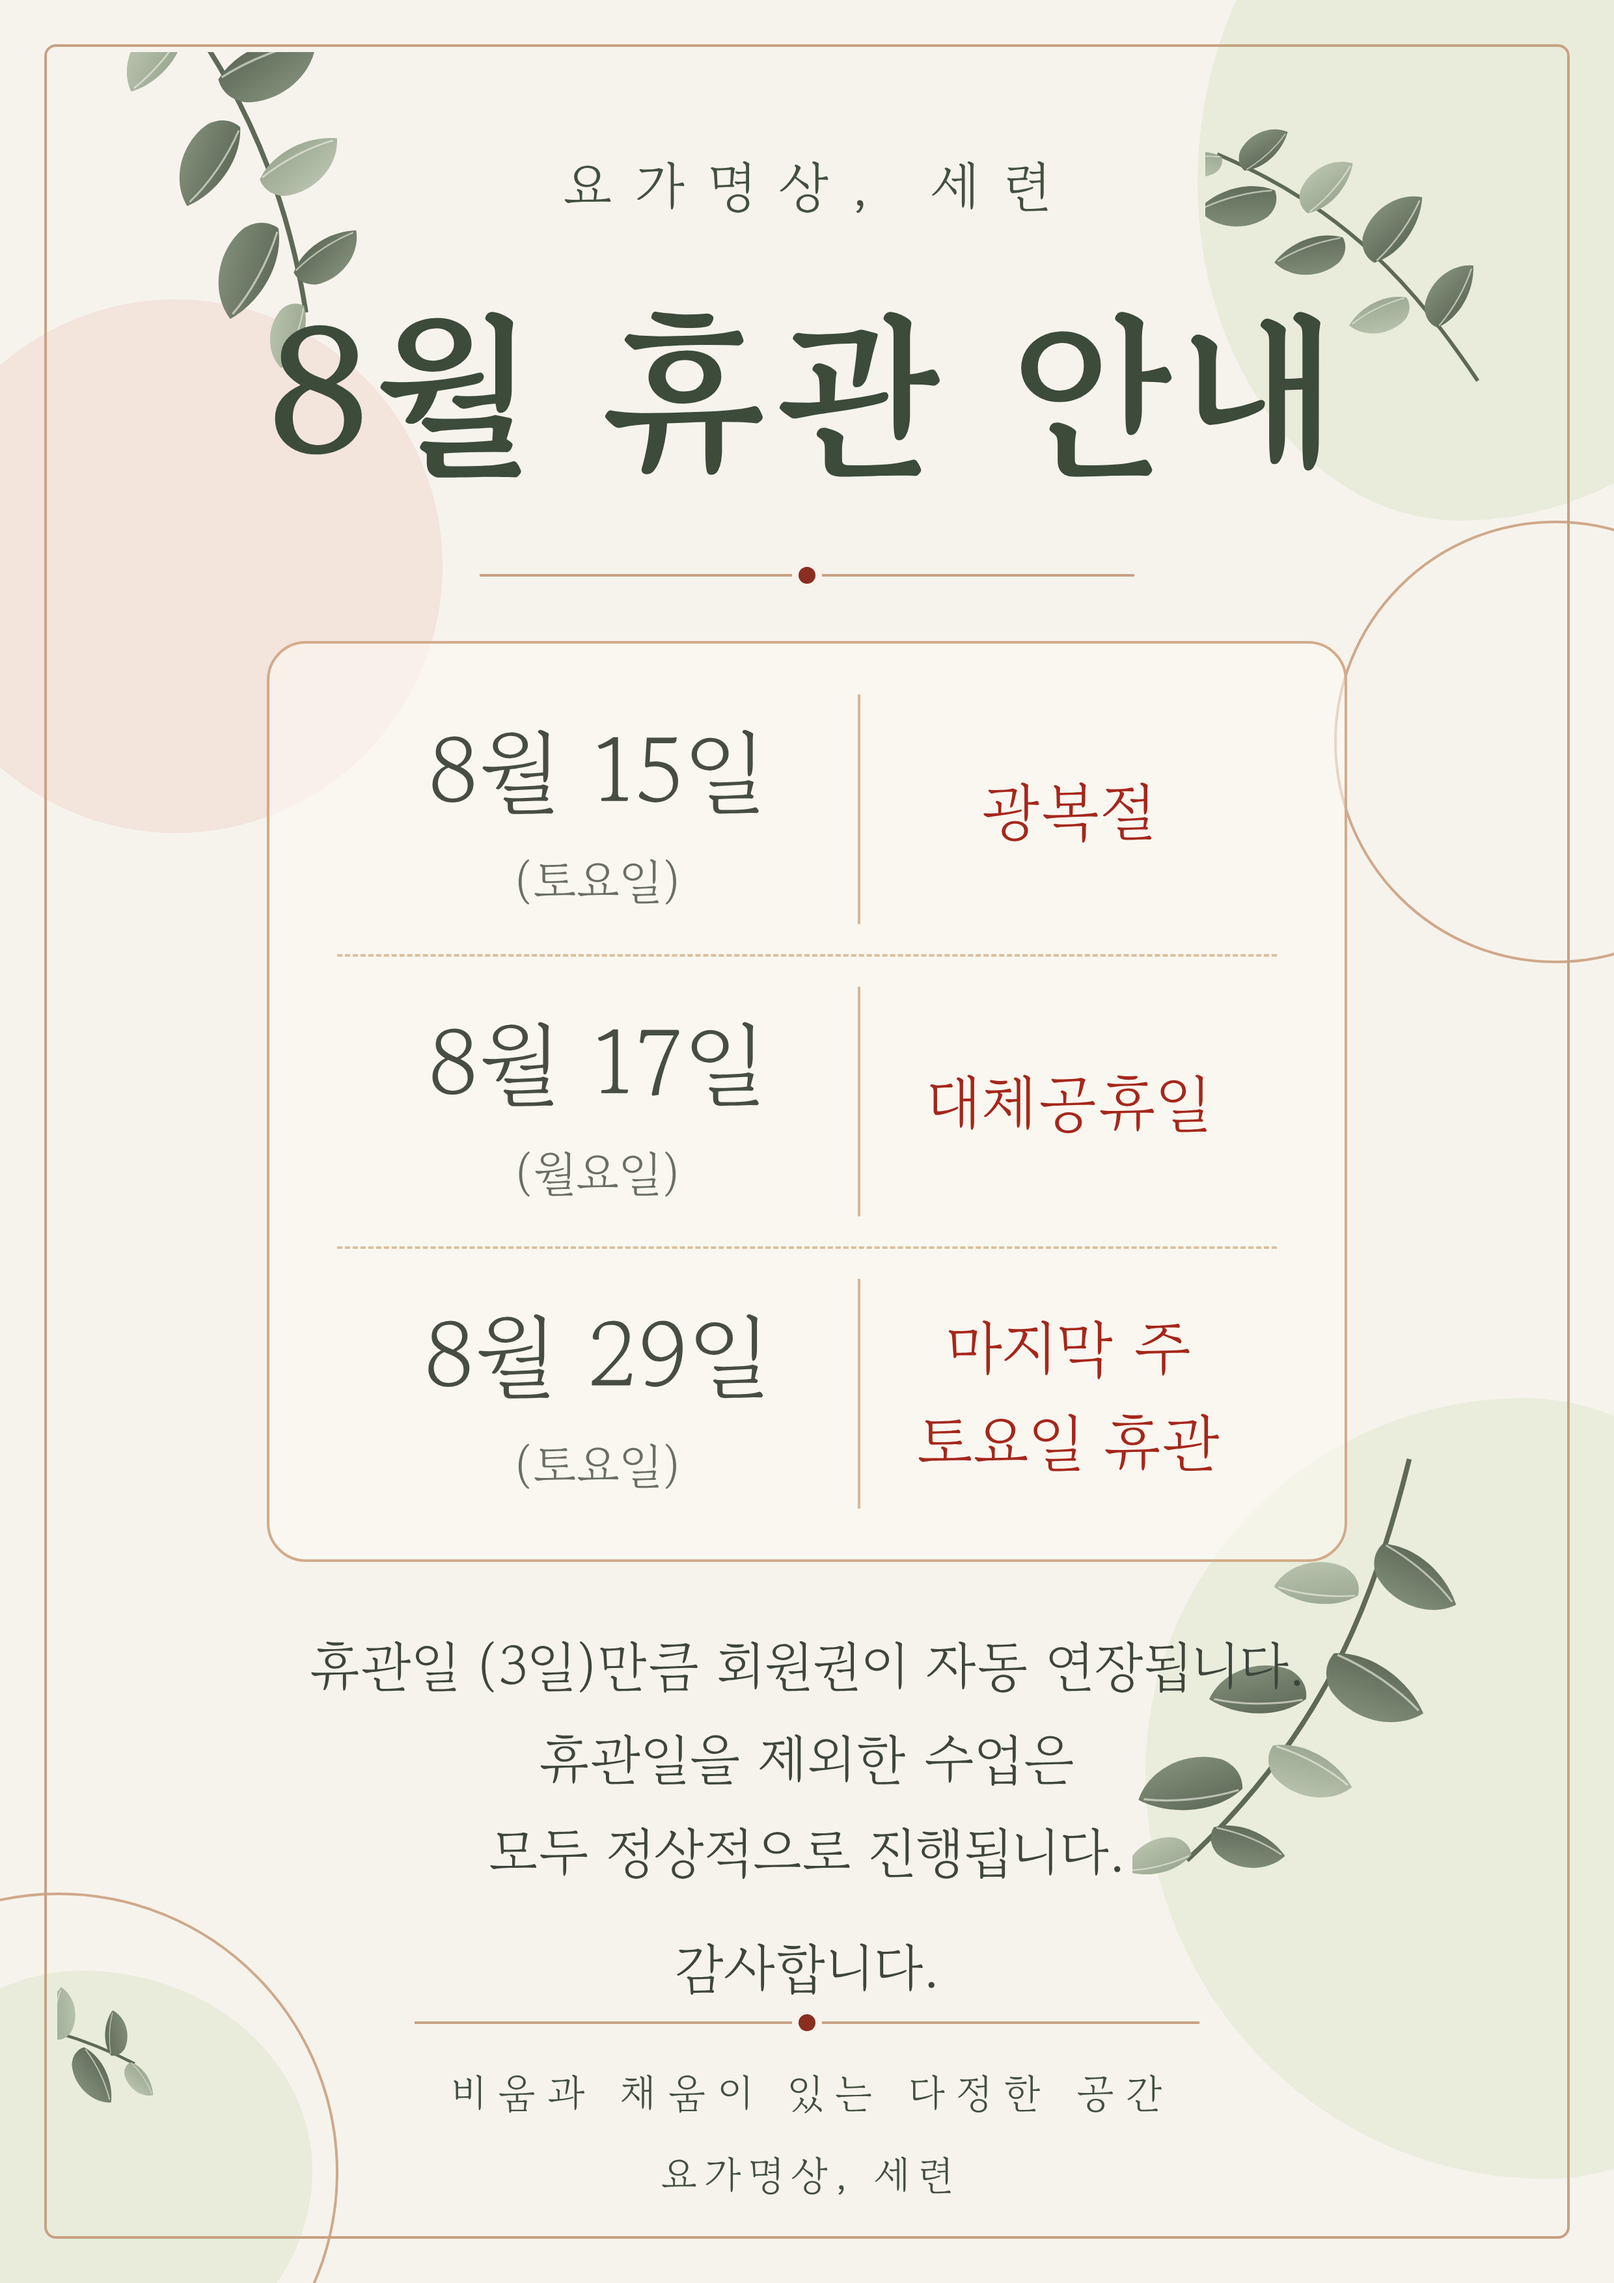
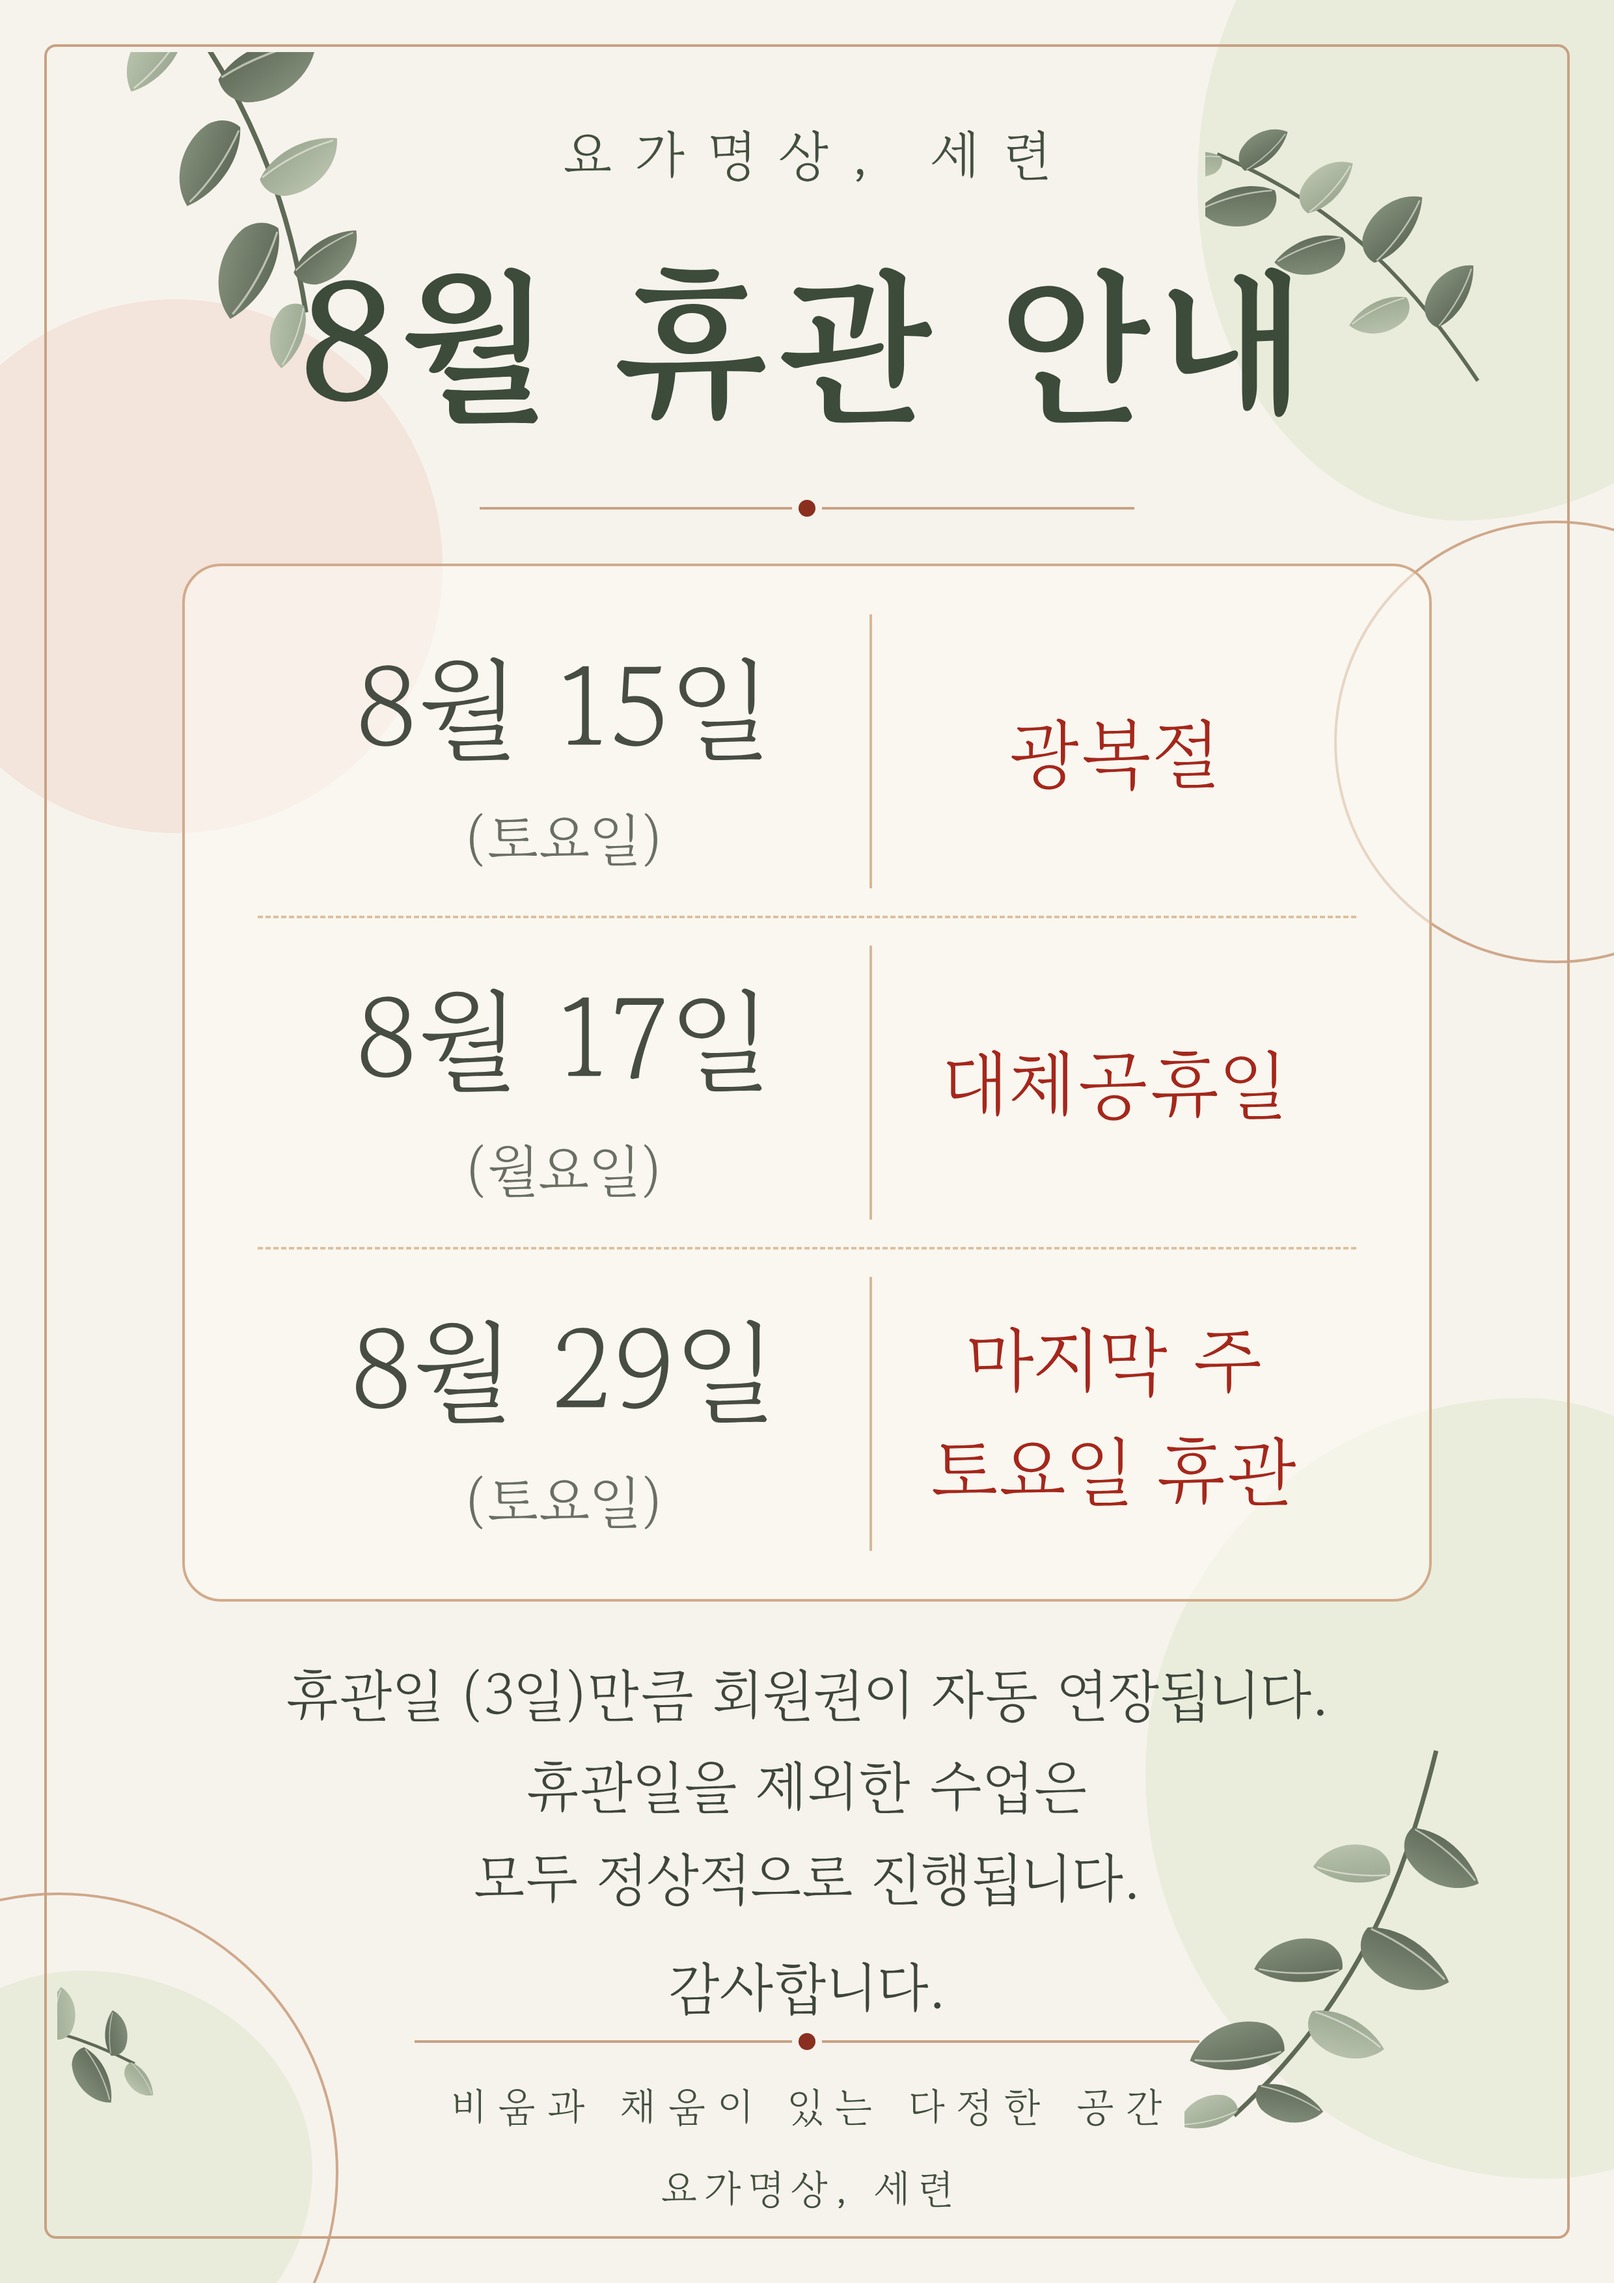
feat: 8월 휴관 안내 포스터 표 박스·날짜 글자 대폭 확대
Claude-Session: https://claude.ai/code/session_01U5ouXd62QUqGjPyW2ev2gs

diff --git a/content/out/2026-08-closure-notice/poster.html b/content/out/2026-08-closure-notice/poster.html
@@ -35,44 +35,44 @@
   .content { position: relative; z-index: 3; height: 100%; display: flex; flex-direction: column; align-items: center; }
 
   .brand-top {
-    margin-top: 112px;
+    margin-top: 88px;
     font-size: 42px; letter-spacing: 0.42em; text-indent: 0.42em;
     color: #43503f;
   }
   h1 {
-    margin-top: 28px;
-    font-size: 136px; font-weight: 700; letter-spacing: 0.04em;
+    margin-top: 20px;
+    font-size: 128px; font-weight: 700; letter-spacing: 0.04em;
     color: #3c4b3a;
   }
-  .divider { margin-top: 38px; display: flex; align-items: center; }
+  .divider { margin-top: 30px; display: flex; align-items: center; }
   .divider .line { width: 240px; height: 2px; background: #c8a184; }
   .divider .dot { width: 13px; height: 13px; border-radius: 50%; background: #8a2f1f; margin: 0 5px; }
 
   .table {
-    margin-top: 44px;
-    width: 830px;
+    margin-top: 36px;
+    width: 960px;
     border: 2px solid #d2ab8a;
     border-radius: 30px;
     background: rgba(252, 250, 244, 0.55);
-    padding: 16px 52px;
+    padding: 16px 56px;
   }
-  .row { display: flex; align-items: center; padding: 30px 0; }
+  .row { display: flex; align-items: center; padding: 28px 0; }
   .row + .row { border-top: 2px dashed #ddc09e; }
-  .row .date { flex: 0 0 400px; text-align: center; }
-  .row .date .d { font-size: 70px; color: #474d42; letter-spacing: 0.02em; }
-  .row .date .w { font-size: 37px; color: #6a6f63; margin-top: 8px; }
+  .row .date { flex: 0 0 470px; text-align: center; }
+  .row .date .d { font-size: 86px; color: #474d42; letter-spacing: 0.02em; }
+  .row .date .w { font-size: 44px; color: #6a6f63; margin-top: 8px; }
   .row .sep { width: 2px; align-self: stretch; background: #d8b795; margin: -7px 0; }
   .row .why {
     flex: 1; text-align: center;
-    font-size: 48px; color: #a5271b; line-height: 1.5;
+    font-size: 58px; color: #a5271b; line-height: 1.45;
   }
 
-  .notes { margin-top: 44px; text-align: center; font-size: 42px; color: #3e463c; line-height: 1.7; }
+  .notes { margin-top: 36px; text-align: center; font-size: 44px; color: #3e463c; line-height: 1.6; }
   .notes .em { color: #a5271b; font-weight: 700; }
-  .notes .thanks { margin-top: 18px; }
+  .notes .thanks { margin-top: 14px; }
 
-  .footer { margin-top: auto; margin-bottom: 70px; display: flex; flex-direction: column; align-items: center; }
-  .footer .divider { margin: 0 0 24px; }
+  .footer { margin-top: auto; margin-bottom: 58px; display: flex; flex-direction: column; align-items: center; }
+  .footer .divider { margin: 0 0 20px; }
   .footer .divider .line { width: 290px; }
   .footer .slogan { font-size: 31px; letter-spacing: 0.28em; text-indent: 0.28em; color: #43503f; }
   .footer .brand { margin-top: 18px; font-size: 31px; letter-spacing: 0.18em; text-indent: 0.18em; color: #43503f; }
@@ -121,7 +121,7 @@
   <svg class="leaves" style="right:28px; top:56px" width="286" height="344" viewBox="0 0 300 360">
     <use href="#branch" transform="translate(50,290) rotate(-14) scale(0.76) scale(-1,1) translate(-230,-300)"/>
   </svg>
-  <svg class="leaves" style="right:40px; bottom:260px" width="330" height="456" viewBox="0 0 360 460">
+  <svg class="leaves" style="right:30px; bottom:70px" width="300" height="414" viewBox="0 0 360 460">
     <use href="#branch" transform="translate(265,385) rotate(174) scale(1.05)"/>
   </svg>
   <svg class="leaves" style="left:44px; bottom:44px" width="274" height="240" viewBox="0 0 300 260">
